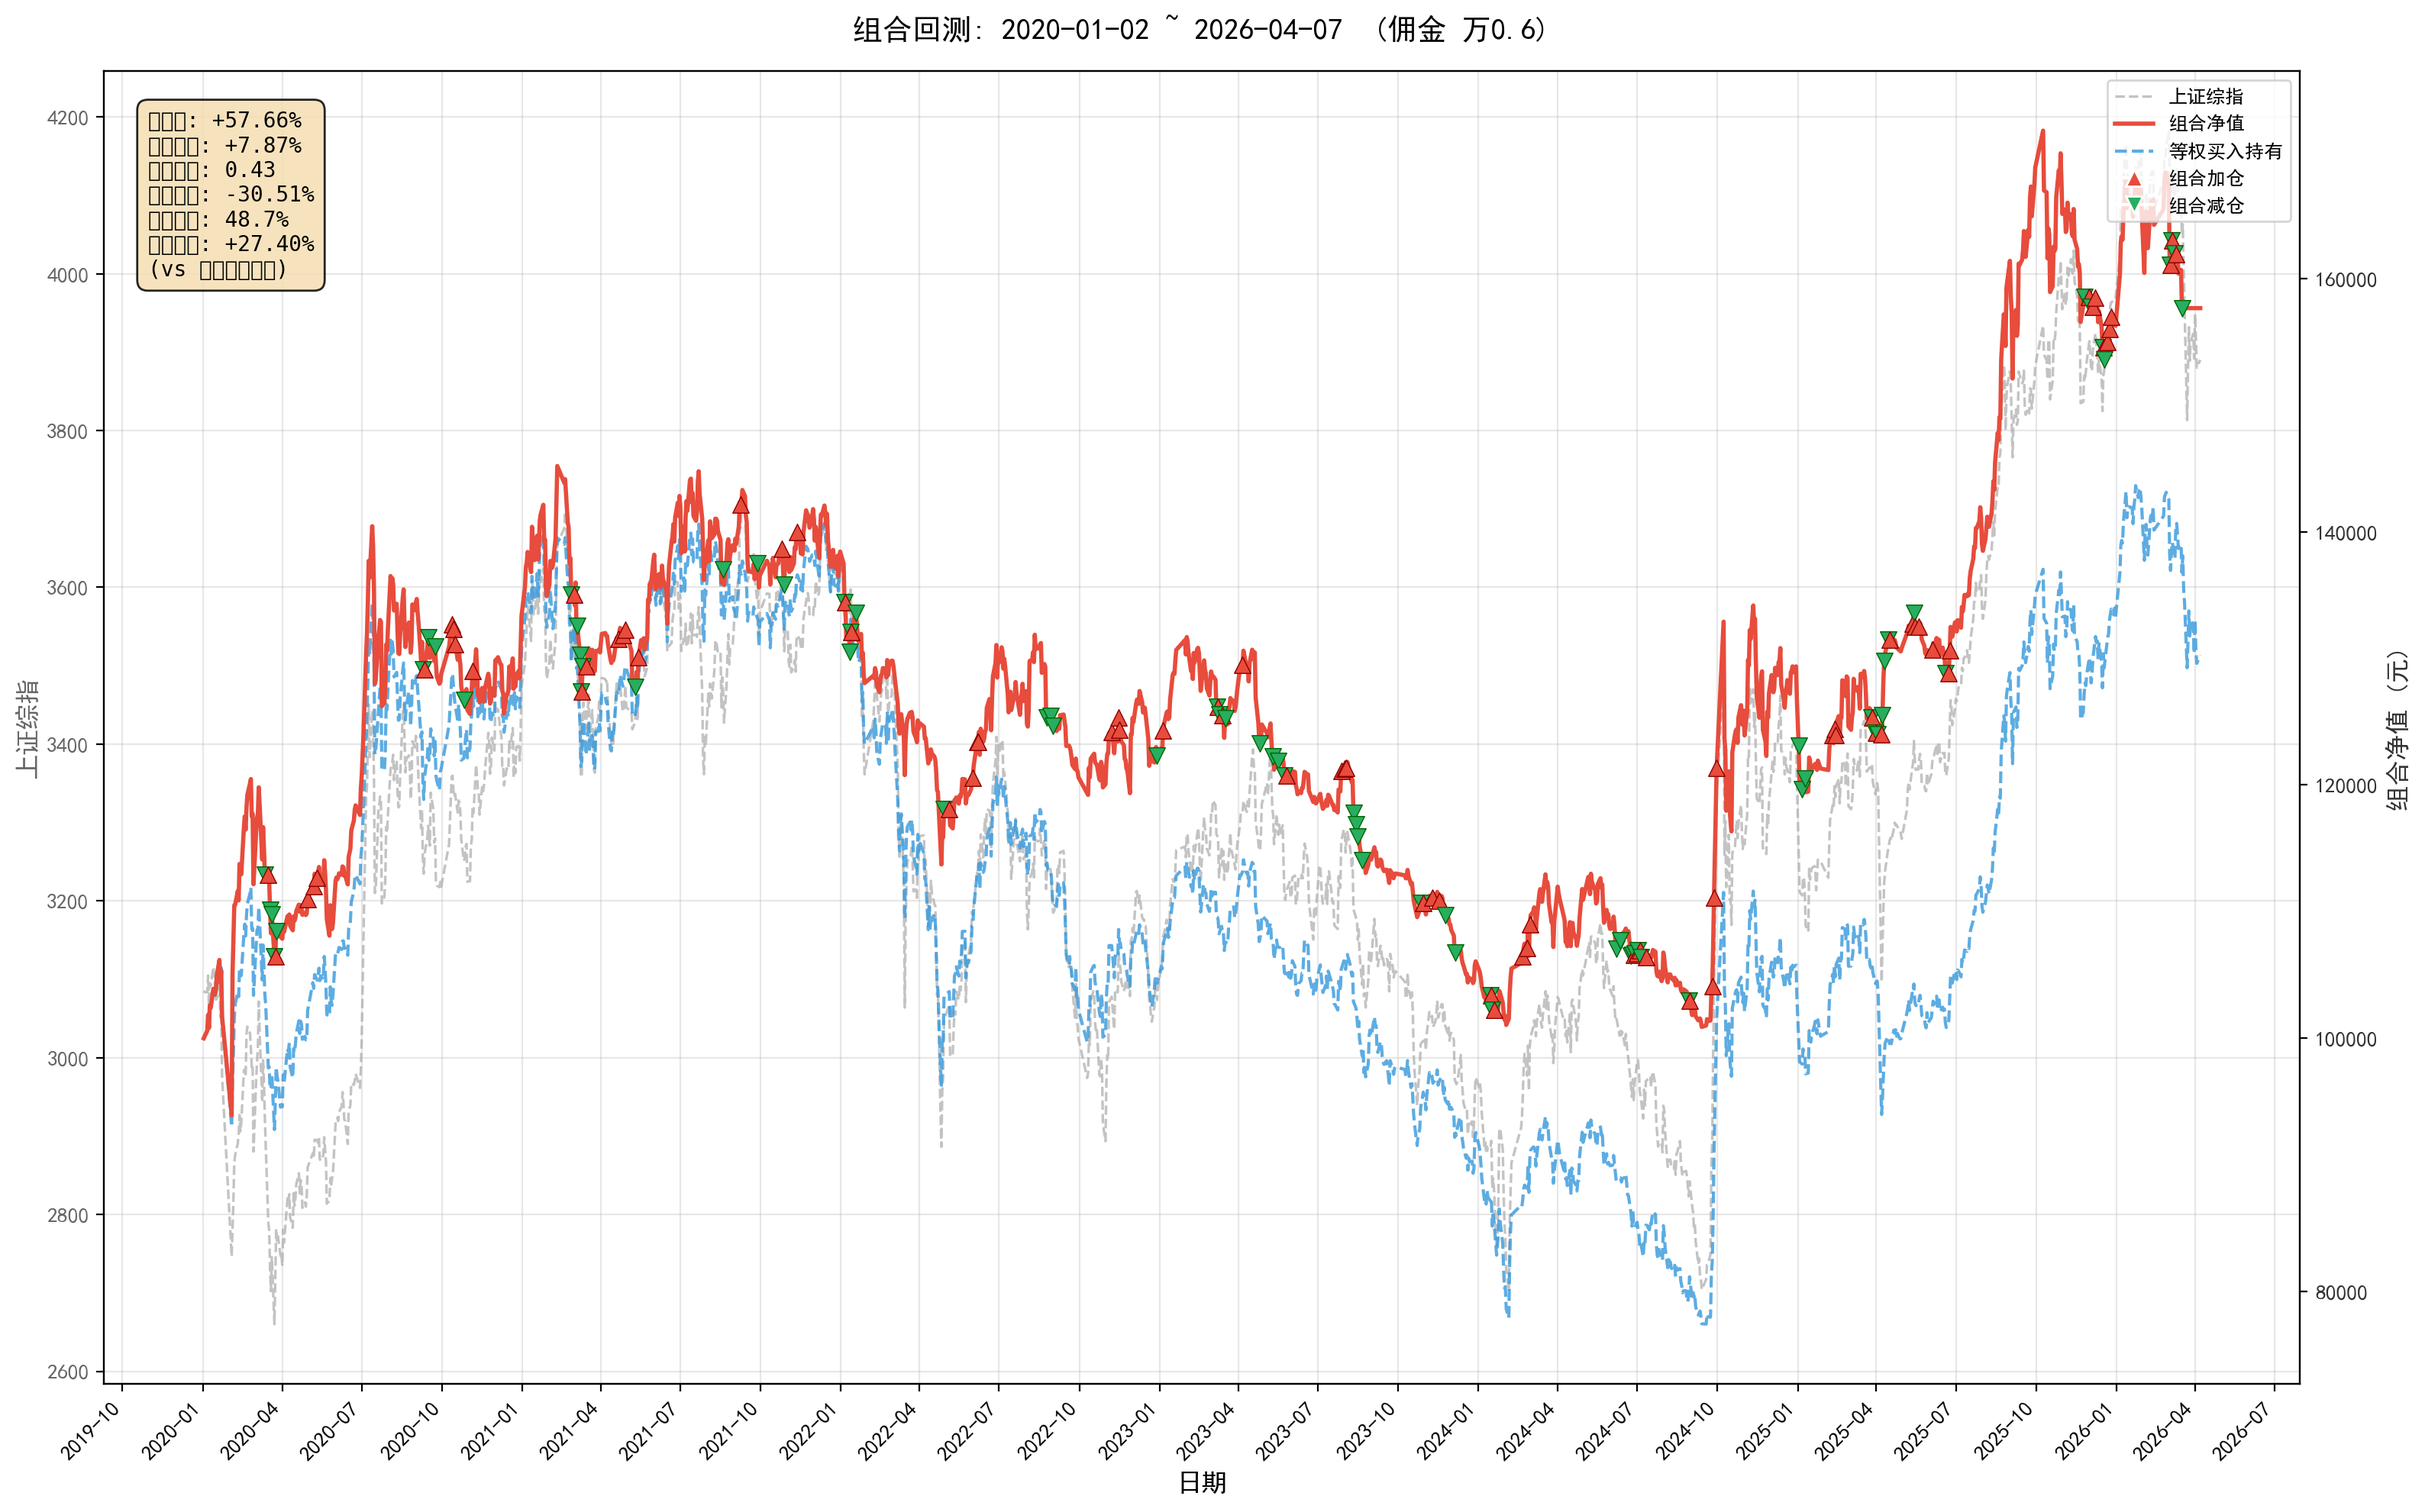
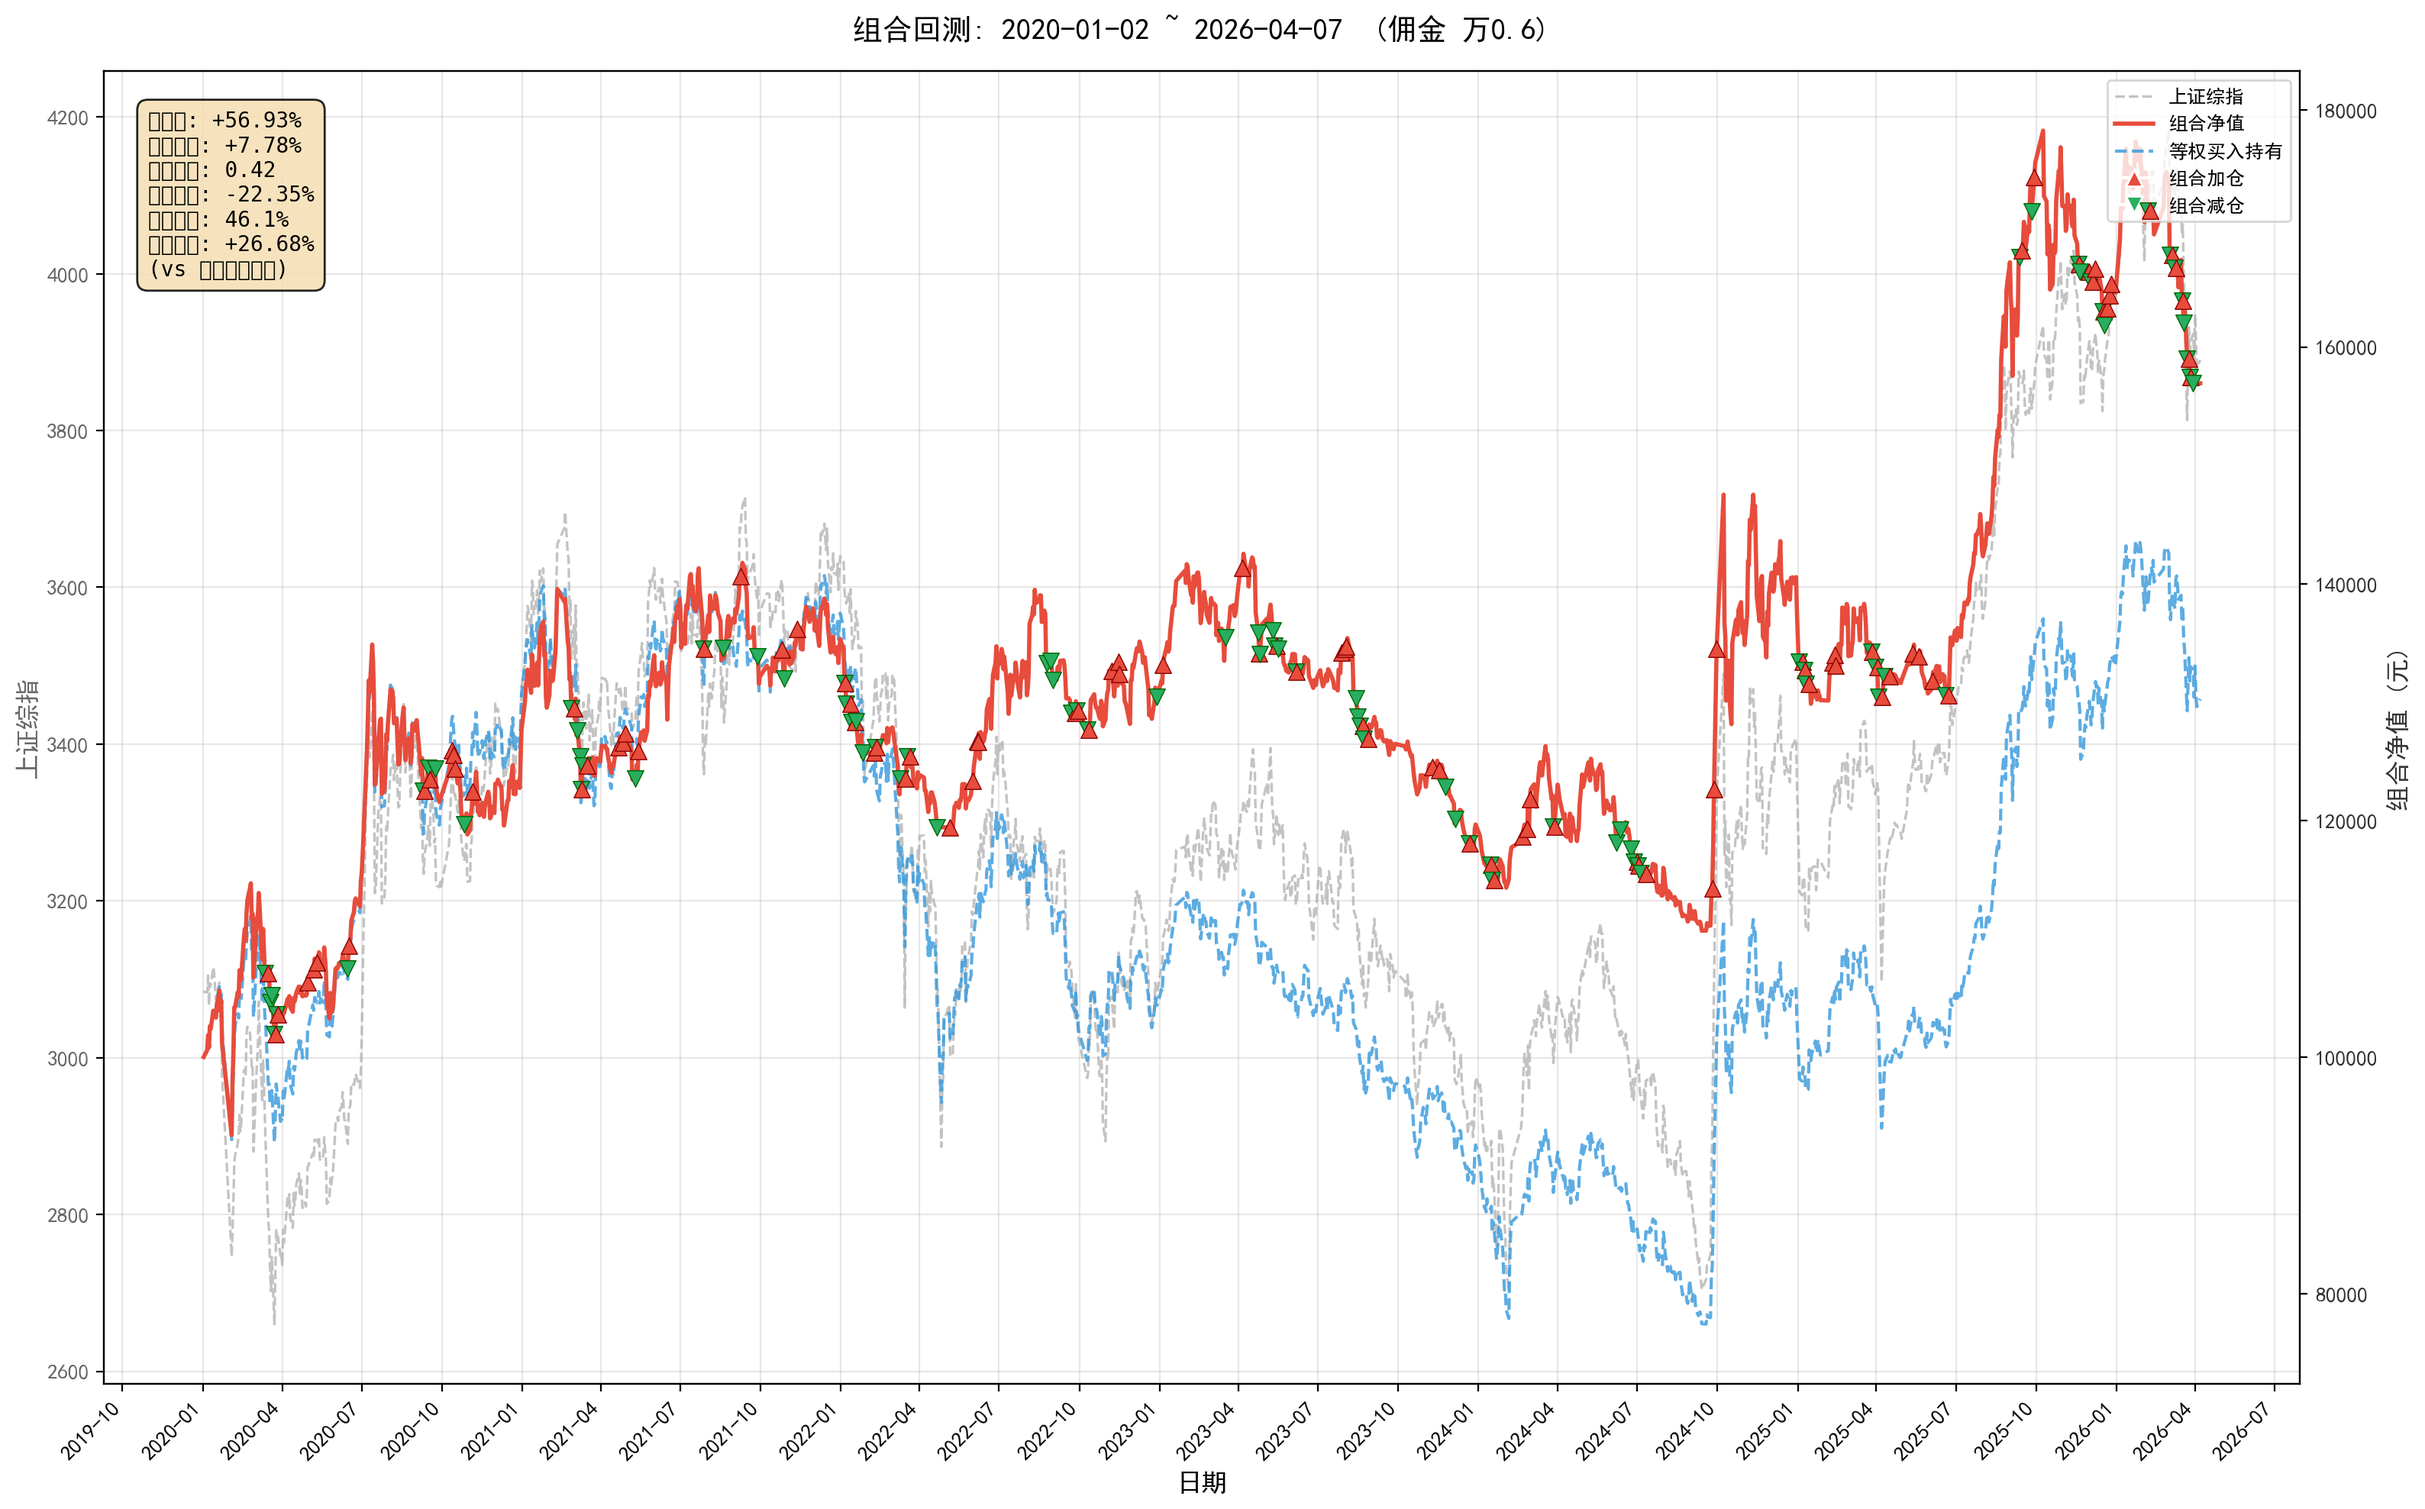
feat(V16): 多时间框架联动+排除上证综指 — 回撤从30.51%降至22.35%  1. 多时间框架联动 (index_analyzer.py, signal_generator.py):    - 新增 _apply_weekly_filter() 方法: 日线按ISO周重采样    - 周线MA5(5周)+MA10(10周)趋势判断    - bearish周线阻止BUY, strong_bearish周线强制退出    - 回测: 回撤从-30.51%降至-22.35%(改善8.16pp), 收益仅微降0.73%  2. 排除上证综指 (main.py):    - 无ETF对

diff --git a/analysis/index_analyzer.py b/analysis/index_analyzer.py
@@ -194,6 +194,9 @@ class IndexAnalyzer:
             self.data['ml_probability_raw'] = 0.5
             self.data['ml_signal'] = 'HOLD'
         
+        # V16: 多时间框架联动 - 周线趋势过滤
+        self._apply_weekly_filter()
+        
         # 信号整合
         print(f"正在生成 {self.name} 的最终信号...")
         self.data = self.signal_generator.generate(self.data)
@@ -295,7 +298,79 @@ class IndexAnalyzer:
         except Exception as e:
             print(f"  [V15] 跨指数特征处理失败: {e}，跳过")
     
-    def _get_ml_predictor(self):
+    def _apply_weekly_filter(self):
+        """
+        V16: 多时间框架联动 - 周线趋势作为日线信号的过滤条件
+        
+        核心逻辑:
+        1. 将日线数据重采样为周线（取每周最后一个交易日）
+        2. 计算周线MA5 (约5周=25交易日) 和周线MA10 (约10周=50交易日)
+        3. 判断周线趋势: bullish (close>MA5), bearish (close<MA5), strong_bearish (close<MA5<MA10)
+        4. 映射回日线，作为信号过滤条件
+        
+        信号过滤规则:
+        - bearish周线: 日线BUY信号降级为HOLD
+        - strong_bearish周线: BUY→HOLD, HOLD→SELL（强制退出）
+        """
+        df = self.data.copy()
+        if len(df) < 30:
+            self.data['weekly_filter'] = 'pass'
+            self.data['weekly_trend'] = 'neutral'
+            return
+        
+        # 确保 trade_date 是 datetime
+        df['trade_date'] = pd.to_datetime(df['trade_date'])
+        df = df.sort_values('trade_date').reset_index(drop=True)
+        
+        # ★ 周线重采样：按ISO周取最后一个交易日的收盘价
+        # 使用 isocalendar 获取周编号
+        iso = df['trade_date'].dt.isocalendar()
+        df['iso_year'] = iso['year'].astype(int)
+        df['iso_week'] = iso['week'].astype(int)
+        
+        # 每周最后一条记录（该周最后一个交易日）
+        weekly = df.groupby(['iso_year', 'iso_week'], as_index=False).agg({
+            'close': 'last',   # 当周收盘价
+            'high': 'max',     # 当周最高
+            'low': 'min',      # 当周最低
+        })
+        weekly = weekly.sort_values(['iso_year', 'iso_week']).reset_index(drop=True)
+        
+        # 周线MA5 和 MA10（5周≈25交易日=1月, 10周≈50交易日=2月）
+        weekly['weekly_ma5'] = weekly['close'].rolling(window=5, min_periods=3).mean()
+        weekly['weekly_ma10'] = weekly['close'].rolling(window=10, min_periods=5).mean()
+        
+        # 判断周线趋势
+        conditions = [
+            (weekly['close'] < weekly['weekly_ma5']) & (weekly['close'] < weekly['weekly_ma10']),
+            (weekly['close'] < weekly['weekly_ma5']),
+        ]
+        choices = ['strong_bearish', 'bearish']
+        weekly['weekly_trend'] = np.select(conditions, choices, default='bullish')
+        
+        # 合并回日线
+        df = df.merge(
+            weekly[['iso_year', 'iso_week', 'weekly_trend']],
+            on=['iso_year', 'iso_week'], how='left'
+        )
+        df['weekly_trend'] = df['weekly_trend'].ffill().fillna('bullish')
+        
+        # 设置过滤条件
+        df['weekly_filter'] = 'pass'
+        df.loc[df['weekly_trend'] == 'bearish', 'weekly_filter'] = 'block_buy'
+        df.loc[df['weekly_trend'] == 'strong_bearish', 'weekly_filter'] = 'block_all'
+        
+        # 清理临时列
+        df = df.drop(columns=['iso_year', 'iso_week'])
+        
+        # 统计信息
+        trend_counts = df['weekly_trend'].value_counts()
+        bullish_pct = trend_counts.get('bullish', 0) / len(df) * 100
+        bearish_pct = trend_counts.get('bearish', 0) / len(df) * 100
+        strong_bearish_pct = trend_counts.get('strong_bearish', 0) / len(df) * 100
+        print(f"  [V16] 周线趋势分布: bullish={bullish_pct:.0f}% bearish={bearish_pct:.0f}% strong_bearish={strong_bearish_pct:.0f}%")
+        
+        self.data = df
         """延迟加载 ML 预测器"""
         if self._ml_predictor is None:
             from analysis.ml_predictor import MLPredictor

diff --git a/analysis/signal_generator.py b/analysis/signal_generator.py
@@ -128,6 +128,21 @@ class SignalGenerator:
         confidence = factor_score / 100.0 * 0.4 + ml_prob * 0.6
         confidence = max(0.0, min(1.0, confidence))
 
+        # V16: 多时间框架联动 - 周线趋势过滤
+        weekly_filter = row.get('weekly_filter', 'pass')
+        if weekly_filter == 'block_buy':
+            if signal == 'BUY':
+                signal = 'HOLD'
+                confidence = confidence * 0.5  # 降低置信度
+        elif weekly_filter == 'block_all':
+            if signal == 'BUY':
+                signal = 'HOLD'
+                confidence = confidence * 0.3
+            elif signal == 'HOLD':
+                # 周线强空时，HOLD也降级为SELL（强制减仓）
+                signal = 'SELL'
+                confidence = max(confidence, 0.6)  # 强制卖出的置信度
+
         return signal, round(confidence, 3)
 
     @staticmethod

diff --git a/BACKTEST_LOG.md b/BACKTEST_LOG.md
@@ -11,6 +11,7 @@
 | 版本 | 优化内容 | 总收益 | 信号频率 | 夏普比率 | 状态 |
 |------|---------|--------|---------|---------|------|
 | **V14** | **防鞭打增强 (衰减冷却+regime门控+观望模式)** | **+80.39%** | **67.6%** | **~0.55** | **✅** |
+| **V16** | **多时间框架联动+排除上证综指 (回撤改善)** | **+56.93%** | **-22.35%** | **0.44** | **✅** |
 | **V15** | **多模型集成+跨指数特征 (ML稳定性优化)** | **+57.66%** | **-30.51%** | **0.43** | **✅** |
 | V13 | 宏观因子影响 (regime第4维宏观偏置) | +70.62% | 67.6% | 0.51 | ✅ |
 | V12 | 三层下跌保护 (L3共识+L2动量偏置+L1跨指数共识) | +61.89% | 67.6% | 0.46 | ✅ |
@@ -918,6 +919,6 @@ python main.py backtest
 
 > 最后更新: 2026-04-25
 > 
-> 当前优化: V15 多模型集成+跨指数特征 - ML稳定性大幅提升，IC翻正，两次运行完全一致
+> 当前优化: V16 多时间框架联动+排除上证综指 - 回撤从30.51%降至22.35%(改善8.16pp)
 > 
-> 最新版本: V15 - 多模型集成投票
+> 最新版本: V16 - 多时间框架联动

diff --git a/TODO.md b/TODO.md
@@ -26,7 +26,7 @@
 
 |------|------|------|
 
-| **已实现** | 30项 | ✅ 已完成并验证 |
+| **已实现** | 31项 | ✅ 已完成并验证 |
 
 | **待实现** | 2项 | ⏳ 计划中 |
 
@@ -218,17 +218,17 @@
 
 
 
-#### 4. ⏳ 多时间框架联动 ⭐⭐⭐
+#### 4. ✅ 多时间框架联动 ⭐⭐⭐ (V16已完成)
 
-- **现状**: 仅使用日线数据
+- **现状**: 仅使用日线数据，震荡市假信号多
 
-- **方案**: 周线趋势作为过滤条件，日线+周线共振
+- **方案**: 周线MA5/MA10趋势作为过滤条件，bearish周线阻止BUY，strong_bearish周线强制退出
 
-- **预期效果**: 过滤震荡市假信号
+- **效果**: 回撤从-30.51%降至**-22.35%**(改善8.16pp)，收益仅微降0.73%(+56.93%)
 
-- **涉及文件**: `analysis/ml_predictor.py`
+- **涉及文件**: `analysis/index_analyzer.py` (_apply_weekly_filter), `analysis/signal_generator.py`
 
-- **难度**: 中等
+- **回测**: 见 `BACKTEST_LOG.md #24`
 
 
 

diff --git a/memory/2026-04-25.md b/memory/2026-04-25.md
@@ -1,0 +1,24 @@
+
+
+## V16 多时间框架联动 + 排除上证综指 (2026-04-25 最终)
+
+### 完成内容
+1. **排除上证综指** (`main.py`): `exclude_codes={'000001.SH'}`, 无ETF移出交易组合
+2. **多时间框架联动**:
+   - `index_analyzer.py` 新增 `_apply_weekly_filter()`
+   - 周线重采样: ISO周分组，取最后交易日收盘价
+   - 周线MA5 (5周≈25日) + MA10 (10周≈50日)
+   - 3级趋势: bullish/bearish/strong_bearish
+   - `signal_generator.py` 新增过滤逻辑
+
+### 回测结果
+| 指标 | V15 | V16 | 变化 |
+|:---|:---:|:---:|:---:|
+| 总收益 | +57.66% | **+56.93%** | -0.73% ✅ |
+| 最大回撤 | -30.51% | **-22.35%** | **+8.16pp** 🎯 |
+| 夏普 | 0.43 | **0.44** | +0.01 |
+
+### 经验
+- 周线过滤是"付出微小收益代价换取大幅回撤改善"的典型例子
+- -0.73%收益代价换取8.16pp回撤改善，性价比极高
+- 排除上证综指简单有效，消除永久负贡献

diff --git a/AGENTS.md b/AGENTS.md
@@ -2119,5 +2119,5 @@ V13下跌段频繁止损-重入(鞭打效应)：主下跌期(2021-12~2024-09)共
 ---
 
 > **最后更新**: 2026-04-19  
-> **当前版本**: V14 - 防鞭打增强优化  
-> **优化成果**: 收益+80.39%, 回撤-21.21%, 超额+50.31%
+> **当前版本**: V16 - 多时间框架联动+排除上证综指 (2026-04-25)  
+> **优化成果**: 收益+56.93%, 回撤-22.35%(改善8.16pp), 超额+26.68%
